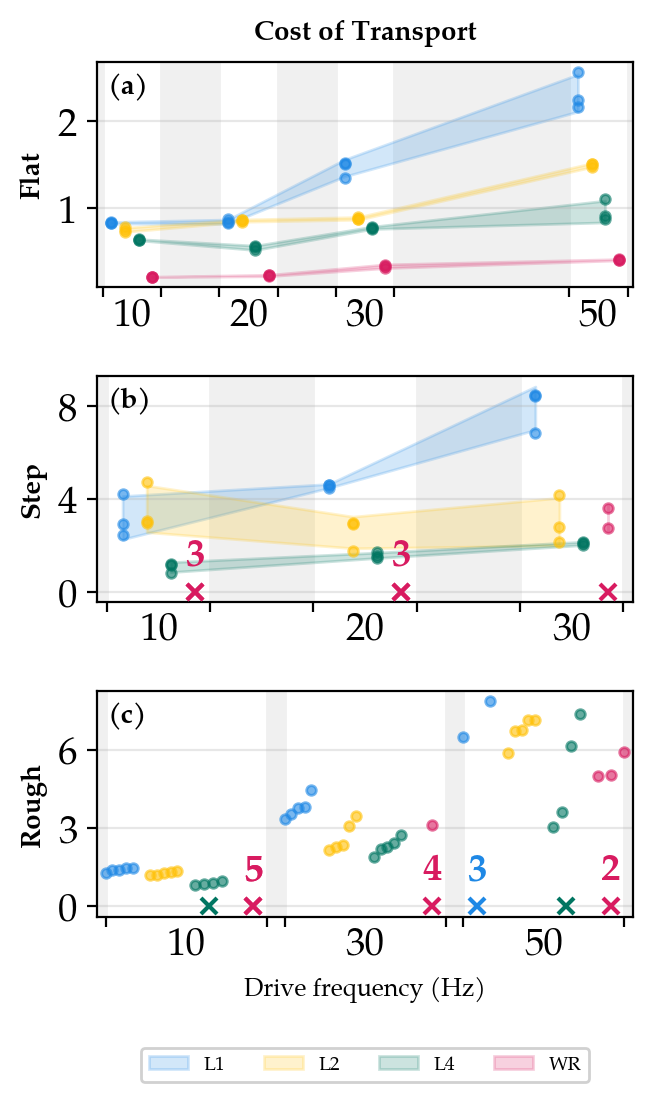
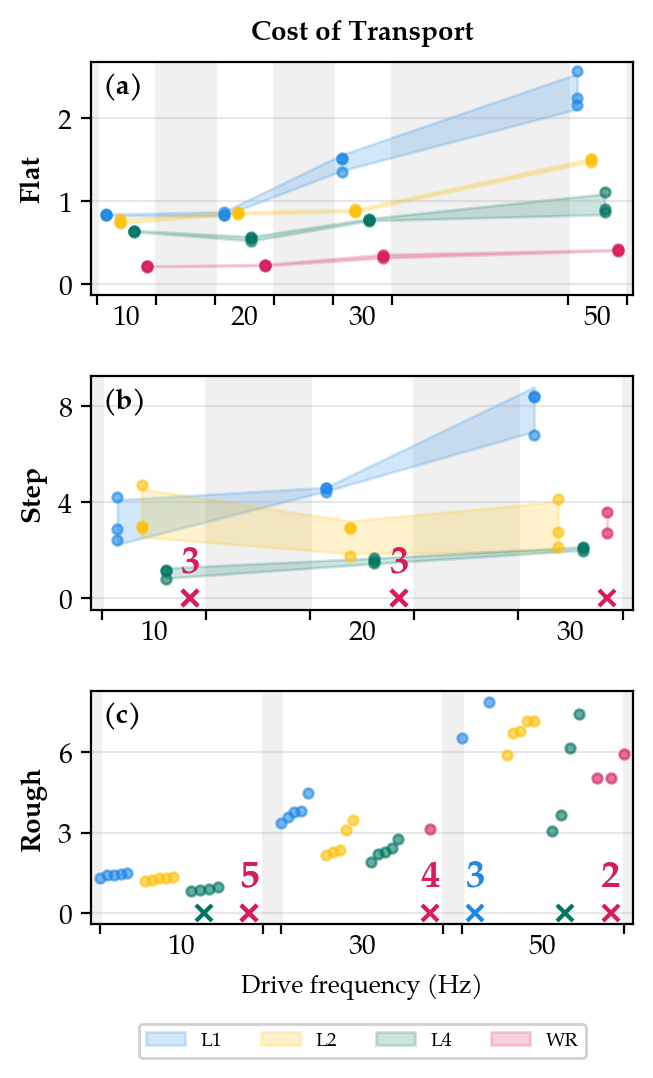
updated cot plot and latex param table

diff --git a/milliquad_opt/analysis/param_table_expanded.tex b/milliquad_opt/analysis/param_table_expanded.tex
@@ -1,0 +1,36 @@
+% Expanded version of param_table.tex with description column
+% Optimized contact parameters: flat (rk4_flat warm), step (rk4_step_cold), rough (rk4_rough warm)
+% Source: RK4_OPTIMIZATION_RESULTS.md
+% Requires: \usepackage{siunitx, xcolor, booktabs}
+% Usage: \input{param_table_expanded.tex}
+
+\begin{table*}[ht]
+\centering
+\caption{Optimized contact parameters for each terrain. \textcolor{red}{Red} highlights divergent values.}
+\label{tab:params_expanded}
+\footnotesize
+\sisetup{}
+\begin{tabular}{lcccp{7cm}}
+\toprule
+Parameter & Flat & Step & Rough & Higher means: \\
+\midrule
+\texttt{friction} (sliding)          & \num{0.368}     & \num{0.358}     & \textcolor{red}{\num{0.504}}     & more resistance to lateral sliding \\
+\texttt{friction} (torsional)        & \num{1.40e-4}   & \textcolor{red}{\num{1.70e-3}}   & \num{1.10e-4}   & more resistance to spinning about contact normal \\
+\texttt{friction} (rolling)          & \num{4.30e-6}   & \textcolor{red}{\num{2.70e-5}}   & \num{1.90e-6}   & more resistance to rolling at contact \\
+\texttt{solref} (timeconst)          & \textcolor{red}{\num{1.36e-3}}   & \textcolor{red}{\num{7.28e-3}}   & \textcolor{red}{\num{4.30e-4}}   & softer, slower constraint stabilization \\
+\texttt{solref} (dampratio)          & \textcolor{red}{\num{6.08}}       & \num{2.38}       & \num{3.03}       & more damped contact response; $<$1 is underdamped \\
+\texttt{solimp} (dmin)               & \textcolor{red}{\num{0.231}}      & \textcolor{red}{\num{0.432}}      & \textcolor{red}{\num{0.321}}      & contact feels stiffer on initial touch \\
+\texttt{solimp} (dmax)               & \textcolor{red}{\num{0.944}}      & \textcolor{red}{\num{0.836}}      & \textcolor{red}{\num{0.521}}      & contact stays stiffer under deep penetration \\
+\texttt{solimp} (width)              & \num{2.90e-5}   & \textcolor{red}{\num{2.00e-4}}   & \num{3.60e-5}   & stiffness ramps up more gradually with penetration depth \\
+\texttt{solimp} (midpoint)           & \textcolor{red}{\num{0.534}}      & \textcolor{red}{\num{0.366}}      & \textcolor{red}{\num{0.787}}      & contact reaches full stiffness at shallower penetration \\
+\texttt{solimp} (power)              & \num{5.08}       & \num{4.14}       & \num{5.50}       & stiffness transitions more abruptly between dmin and dmax \\
+\texttt{moment\_fudge}$^*$           & \num{0.881}      & \num{0.797}      & \textcolor{red}{\num{1.14}}       & magnets react more strongly to the magnetic field \\
+\texttt{field\_fudge}$^*$            & \num{1.04}       & \textcolor{red}{\num{0.802}}      & \num{1.03}       & stronger external drive field \\
+\texttt{damping}                     & \num{3.40e-10}   & \num{9.30e-10}   & \num{7.30e-10}   & more viscous resistance at each joint \\
+\texttt{noslip\_iterations}          & 0          & \textcolor{red}{30}         & 0          & more accurate no-slip friction enforcement; 0 disables solver \\
+\texttt{noslip\_tolerance}           & \num{1.00e-6}   & \textcolor{red}{\num{1.50e-5}}   & \num{1.60e-6}  & more residual sliding allowed before friction solver converges \\
+\texttt{o\_margin}                   & \num{1.70e-4}   & \num{2.70e-4}   & \textcolor{red}{\num{2.90e-6}}   & contacts detected earlier (larger gap) \\
+\bottomrule
+\multicolumn{5}{l}{\scriptsize $^*$Custom scaling factors, not MuJoCo parameters.}
+\end{tabular}
+\end{table*}

diff --git a/milliquad_opt/analysis/param_table.tex b/milliquad_opt/analysis/param_table.tex
@@ -1,0 +1,42 @@
+% Optimized contact parameters: flat (rk4_flat warm), step (rk4_step_cold), rough (rk4_rough warm)
+% Source: RK4_OPTIMIZATION_RESULTS.md
+% Requires: \usepackage{siunitx, xcolor, booktabs}
+% Usage: \input{param_table.tex}
+% Parameter names match MuJoCo API (https://mujoco.readthedocs.io/en/stable/XMLreference.html)
+%   friction: geom/pair attribute, 3-vector (sliding, torsional, rolling)
+%   solref: geom/pair attribute, 2-vector (timeconst, dampratio)
+%   solimp: geom/pair attribute, 5-vector (dmin, dmax, width, midpoint, power)
+%   damping: joint attribute
+%   noslip_iterations, noslip_tolerance, o_margin: option attributes
+%   moment_fudge, field_fudge: custom (not MuJoCo)
+
+\begin{table}[ht]
+\centering
+\caption{Optimized contact parameters for each terrain. \textcolor{red}{Red} highlights outlier values.}
+\label{tab:params}
+\footnotesize
+\sisetup{output-exponent-marker=\text{e}}
+\begin{tabular}{lccc}
+\toprule
+Parameter & Flat & Step & Rough \\
+\midrule
+\texttt{friction} (sliding)          & \num{0.368}     & \num{0.358}     & \textcolor{red}{\num{0.504}}     \\
+\texttt{friction} (torsional)        & \num{1.40e-4}   & \textcolor{red}{\num{1.70e-3}}   & \num{1.10e-4}   \\
+\texttt{friction} (rolling)          & \num{4.30e-6}   & \textcolor{red}{\num{2.70e-5}}   & \num{1.90e-6}   \\
+\texttt{solref} (timeconst)          & \textcolor{red}{\num{1.36e-3}}   & \textcolor{red}{\num{7.28e-3}}   & \textcolor{red}{\num{4.30e-4}}   \\
+\texttt{solref} (dampratio)          & \textcolor{red}{\num{6.08}}       & \num{2.38}       & \num{3.03}       \\
+\texttt{solimp} (dmin)               & \textcolor{red}{\num{0.231}}      & \textcolor{red}{\num{0.432}}      & \textcolor{red}{\num{0.321}}      \\
+\texttt{solimp} (dmax)               & \textcolor{red}{\num{0.944}}      & \textcolor{red}{\num{0.836}}      & \textcolor{red}{\num{0.521}}      \\
+\texttt{solimp} (width)              & \num{2.90e-5}   & \textcolor{red}{\num{2.00e-4}}   & \num{3.60e-5}   \\
+\texttt{solimp} (midpoint)           & \textcolor{red}{\num{0.534}}      & \textcolor{red}{\num{0.366}}      & \textcolor{red}{\num{0.787}}      \\
+\texttt{solimp} (power)              & \num{5.08}       & \num{4.14}       & \num{5.50}       \\
+\texttt{moment\_fudge}$^*$           & \num{0.881}      & \num{0.797}      & \textcolor{red}{\num{1.14}}       \\
+\texttt{field\_fudge}$^*$            & \num{1.04}       & \textcolor{red}{\num{0.802}}      & \num{1.03}       \\
+\texttt{damping}                     & \num{3.40e-10}   & \num{9.30e-10}   & \num{7.30e-10}   \\
+\texttt{noslip\_iterations}          & 0          & \textcolor{red}{30}         & 0          \\
+\texttt{noslip\_tolerance}           & \num{1.00e-6}   & \textcolor{red}{\num{1.50e-5}}   & \num{1.60e-6}  \\
+\texttt{o\_margin}                   & \num{1.70e-4}   & \num{2.70e-4}   & \textcolor{red}{\num{2.90e-6}}   \\
+\bottomrule
+\multicolumn{4}{l}{\scriptsize $^*$Custom scaling factors, not MuJoCo parameters.}
+\end{tabular}
+\end{table}

diff --git a/milliquad_opt/analysis/plot_cot_only.py b/milliquad_opt/analysis/plot_cot_only.py
@@ -109,6 +109,10 @@ def main():
         terrain = present[i]
         row_label = _ROW_LABELS.get(terrain, terrain.title())
 
+        # Uniform padding below 0 (5% of top) so 0-tick + X markers are visible
+        top = ax.get_ylim()[1]
+        ax.set_ylim(bottom=-0.05 * top)
+
         # Shrink dots and X markers
         for coll in ax.collections:
             if isinstance(coll, PathCollection):
@@ -125,7 +129,8 @@ def main():
 
         # Terrain label on left, y-ticks on left
         ax.set_ylabel(row_label, fontsize=10, fontweight="bold")
-        ax.tick_params(axis="y", left=True, labelleft=True, right=False, labelright=False)
+        ax.tick_params(axis="y", left=True, labelleft=True, right=False, labelright=False, labelsize=10)
+        ax.tick_params(axis="x", which="both", labelsize=10)
 
         # Remove xlabel except bottom row
         if i < n_rows - 1:
@@ -158,7 +163,7 @@ def main():
         plot_center = (plot_left + plot_right) / 2
         fig.legend(handles, labels, loc="lower center", ncol=4,
                    fontsize=7, framealpha=0.9,
-                   bbox_to_anchor=(plot_center, 0.02))
+                   bbox_to_anchor=(plot_center, 0.04))
 
     out = args.output or "plots/cot_only.png"
     fig.savefig(out, dpi=200, bbox_inches="tight")

diff --git a/milliquad_opt/analysis/plot_validation.py b/milliquad_opt/analysis/plot_validation.py
@@ -340,7 +340,7 @@ def plot_panel(
     ax.set_xlabel("Frequency (Hz)")
     ax.set_ylabel(ylabel)
     ax.set_title(title)
-    ax.yaxis.set_major_locator(MaxNLocator(nbins=3))
+    ax.yaxis.set_major_locator(MaxNLocator(nbins=3, min_n_ticks=3))
     ax.grid(axis="y", alpha=0.3)
 
     all_freqs = set(f for d in data.values() for f in d["mean_freqs"])
